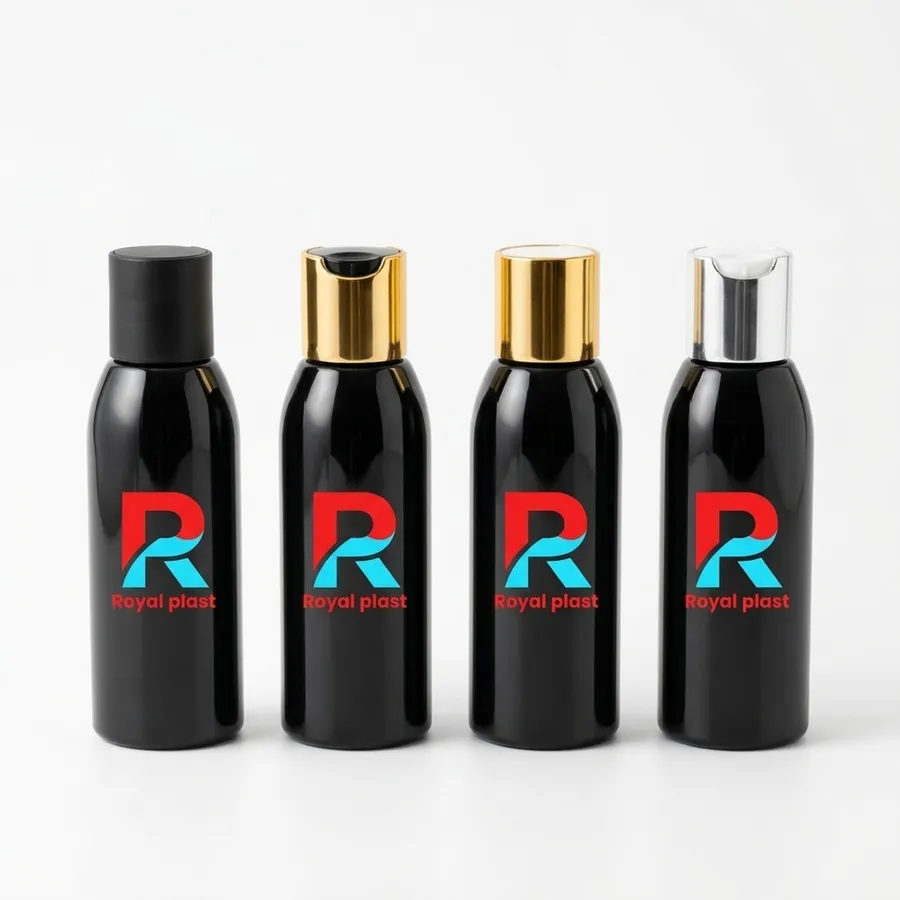
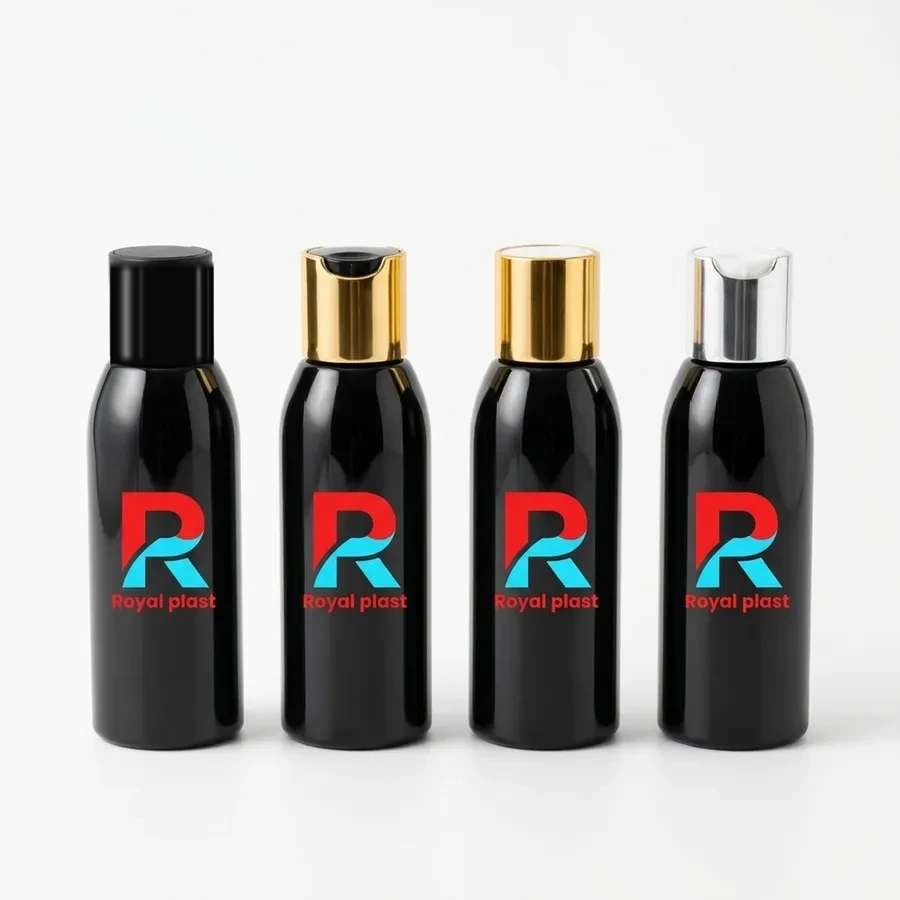
RP-009: glossy black cap on black bottles image
Claude-Session: https://claude.ai/code/session_01RHpAwk7S9yFShcnyhoKaQD

Changed region(s): [[0.1244, 0.28, 0.2489, 0.4044]]

diff --git a/app.js b/app.js
@@ -55,7 +55,7 @@ function fullTitle(p){return `${t(p.cat=='jar'?'jar':'bottle')} ${sizesTxt(p)}`.
 function sub(p){if(p.nospec)return t('nospec');const a=[];if(p.necks.length)a.push(p.necks.map(n=>'NK'+n).join(' / '));p.caps.forEach(c=>a.push(capName(c)));p.extra.forEach(e=>a.push(lang=='ar'?e.ar:e.en));return a.join(' · ')}
 const colTxt=p=>p.colors.map(c=>t(c)).join('، ').replace(/،/g,lang=='ar'?'، ':', ');
 const dotsHTML=p=>`<span class="dots">${p.colors.map(c=>`<i class="dot d-${c}" title="${t(c)}"></i>`).join('')}</span>`;
-const IMGV='20261109k';const imgU=n=>`img/${n}.webp?v=${IMGV}`,thU=n=>`t/${n}.webp?v=${IMGV}`;
+const IMGV='20261109l';const imgU=n=>`img/${n}.webp?v=${IMGV}`,thU=n=>`t/${n}.webp?v=${IMGV}`;
 function reveal(root){const io=new IntersectionObserver(es=>es.forEach(e=>{if(e.isIntersecting){e.target.classList.add('in');io.unobserve(e.target)}}),{threshold:.12,rootMargin:'0px 0px -40px 0px'});
  (root||document).querySelectorAll('.rv:not(.in)').forEach(el=>io.observe(el))}
 function applyLang(){document.documentElement.lang=lang;document.documentElement.dir=lang=='ar'?'rtl':'ltr';
